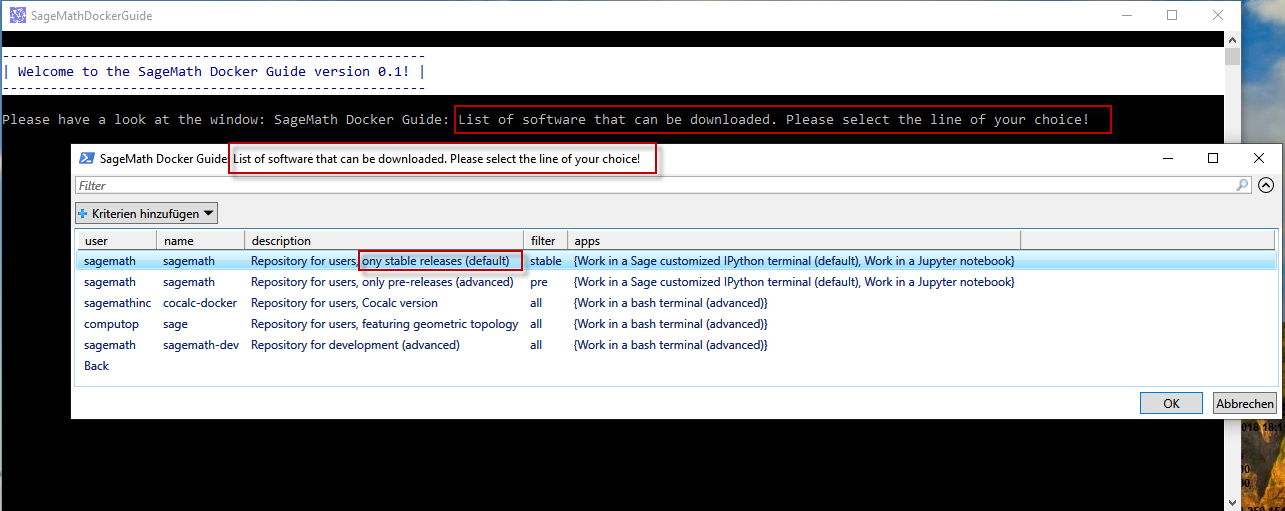
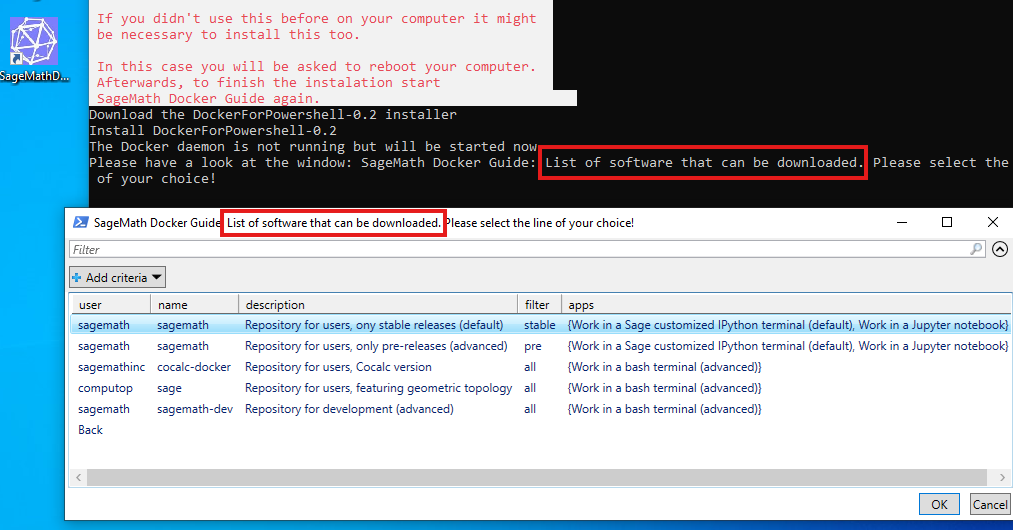
some more

diff --git a/README.md b/README.md
@@ -100,9 +100,9 @@ This most likely happens if your CPU virtualization technology is not enabled in
 
 If Docker starts automatically when you boot your computer, you can [skip this section](#2.3). If the Docker daemon is not already running, you will see the following screen:
 
-![Deamon not running](screenshots/DeamonNotRunning.png)
+![Deamon not running](screenshots/DaemonNotRunningAfterInstall.png)
 
-Click *Retry* (in the screenshot *Wiederholen* in german) until the popup message disappears.
+Click *Retry* until the popup message disappears.
 
 [Go back to the Table of Contents](#TOF)
 
@@ -119,11 +119,11 @@ The first line takes you to the stable software versions of SageMath, the second
 
 ![List of download versions](screenshots/ListOfDownloadVersions.png)
 
-Again select the line of your choice and press OK. The download progress will be displayed in a separate window. The following screenshot is from the download of version 10.5.beta3 of the SageMath development version:
+Again select the line of your choice and press OK. The download progress will be displayed in a separate window.
 
-![Download development version](screenshots/DownloadDev.png)
+![Download development version](screenshots/DownloadingSagemath10.4.png)
 
-Depending on the quality of your internet connection, this may take some time. If you interrupt it, it will resume from where you interrupted it when you restart the SageMath Docker Guide:
+Depending on the quality of your internet connection, this may take some time. If you interrupt it, it will resume from where you interrupted it when you restart the SageMath Docker Guide as in this eaxmple:
 
 ![Download Computop repeated](screenshots/DownloadComputopRepeated.png)
 
